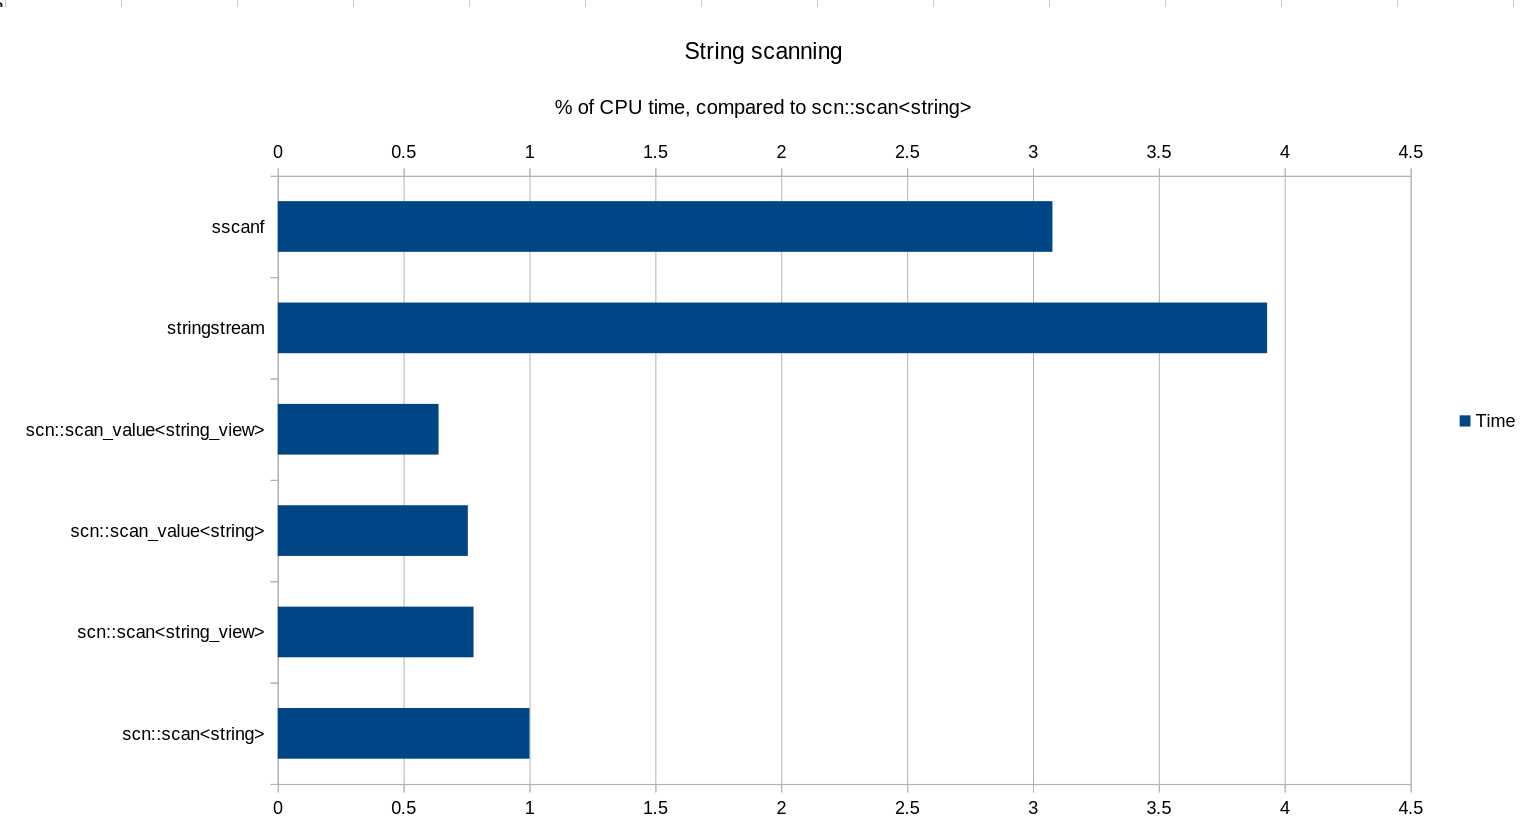
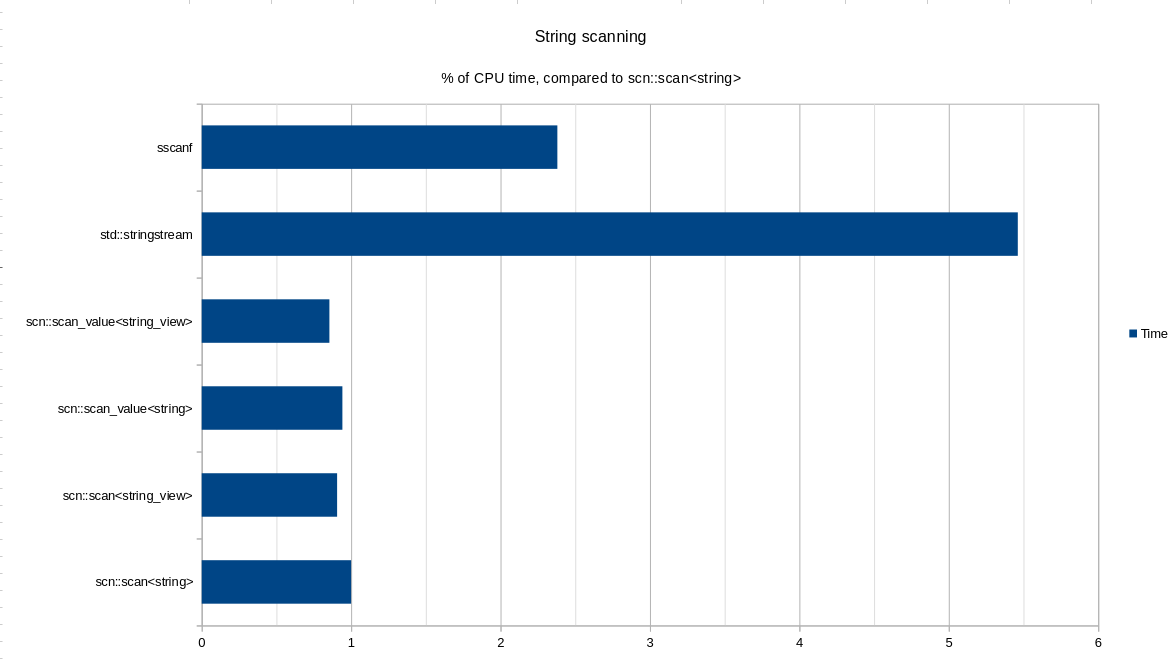
Update benchmark results

diff --git a/README.md b/README.md
@@ -209,30 +209,31 @@ Lower is better.
 
 ![Integer result, chart](benchmark/runtime/results/int.png)
 
-| Test                     | Test 1 `"single"` | Test 2 `"repeated"` |
-|:-------------------------|------------------:|--------------------:|
-| `scn::scan`              |              27.2 |                34.4 |
-| `scn::scan_value`        |              22.2 |                29.9 |
-| `scn::scan_int`          |              16.8 |                24.7 |
-| `std::stringstream`      |               112 |                56.2 |
-| `sscanf`                 |              72.1 |                 477 |
-| `strtol`                 |              16.5 |                24.5 |
-| `std::from_chars`        |              8.16 |                13.5 |
-| `fast_float::from_chars` |              7.23 |                12.0 |
+| Test                             | Test 1 `"single"` | Test 2 `"repeated"` | Test average |
+|:---------------------------------|------------------:|--------------------:|-------------:|
+| `scn::scan`                      |              23.8 |                30.4 |         27.1 |
+| `scn::scan_value`                |              20.5 |                27.4 |         24.0 |
+| `scn::scan_int`                  |              16.5 |                24.1 |         20.3 |
+| `scn::scan_int_exhaustive_valid` |              4.08 |                   - |         4.08 |
+| `std::stringstream`              |               117 |                53.9 |         85.5 |
+| `sscanf`                         |              71.3 |                 474 |        272.7 |
+| `strtol`                         |              16.3 |                23.8 |         20.1 |
+| `std::from_chars`                |              8.73 |                13.0 |         10.9 |
+| `fast_float::from_chars`         |              6.87 |                11.8 |         9.35 |
 
 #### Floating-point number parsing (`double`)
 
 ![Float result, chart](benchmark/runtime/results/float.png)
 
-| Test                     | Test 1 `"single"` | Test 2 `"repeated"` |
-|:-------------------------|------------------:|--------------------:|
-| `scn::scan`              |              66.3 |                82.7 |
-| `scn::scan_value`        |              61.9 |                76.7 |
-| `std::stringstream`      |               270 |                 272 |
-| `sscanf`                 |               161 |                 713 |
-| `strtod`                 |              85.1 |                 155 |
-| `std::from_chars`        |              15.7 |                29.1 |
-| `fast_float::from_chars` |              16.6 |                29.1 |
+| Test                     | Test 1 `"single"` | Test 2 `"repeated"` | Test Average |
+|:-------------------------|------------------:|--------------------:|-------------:|
+| `scn::scan`              |              55.8 |                63.7 |         59.7 |
+| `scn::scan_value`        |              52.1 |                58.8 |         55.5 |
+| `std::stringstream`      |               294 |                 271 |          283 |
+| `sscanf`                 |               159 |                 704 |          432 |
+| `strtod`                 |              79.1 |                 153 |          116 |
+| `std::from_chars`        |              18.0 |                28.1 |         23.0 |
+| `fast_float::from_chars` |              20.6 |                27.8 |         24.2 |
 
 #### String "word" (whitespace-separated character sequence) parsing (`string` and `string_view`)
 
@@ -240,12 +241,12 @@ Lower is better.
 
 | Test                           |      |
 |:-------------------------------|-----:|
-| `scn::scan<string>`            | 32.4 |
-| `scn::scan<string_view>`       | 25.2 |
-| `scn::scan_value<string>`      | 24.5 |
-| `scn::scan_value<string_view>` | 20.7 |
-| `std::stringstream`            |  127 |
-| `sscanf`                       | 99.7 |
+| `scn::scan<string>`            | 24.5 |
+| `scn::scan<string_view>`       | 22.2 |
+| `scn::scan_value<string>`      | 23.1 |
+| `scn::scan_value<string_view>` | 21.0 |
+| `std::stringstream`            |  134 |
+| `sscanf`                       | 58.4 |
 
 #### Conclusions
 
@@ -256,6 +257,7 @@ Lower is better.
 * `scn::scan_value` is slightly faster compared to `scn::scan`
 * `scn::scan_int` is faster than both `scn::scan` and `scn::scan_value`
 * `strtol` is ~on-par with `scn::scan_int`.
+* `scn::scan_int_exhaustive_valid` is blazing-fast.
 
 #### About
 
@@ -275,18 +277,16 @@ Above,
 
 The difference between "Test 1" and "Test 2" is most pronounced when using
 a `stringstream`, which is relatively expensive to construct,
-and seems to be adding around ~100ns of runtime.
+and seems to be adding around ~50ns of runtime.
 With `sscanf`, it seems like using the `%n` specifier and skipping whitespace
 are really expensive (~400ns of runtime).
 With `scn::scan` and `std::from_chars`, there's really no state to construct,
 and the results for "Test 1" and "Test 2" are thus quite similar.
 
-These benchmarks were run on a Fedora 39 machine, running Linux kernel version
-6.6.8, with an AMD Ryzen 7 5700X processor, and compiled with clang version
-17.0.6,
+These benchmarks were run on a Fedora 40 machine, running Linux kernel version
+6.8.9, with an AMD Ryzen 7 5700X processor, and compiled with clang version 18.1.1,
 with `-O3 -DNDEBUG -march=haswell` and LTO enabled.
-C++20 was used, with the library-bundled ranges implementation (`nanorange`).
-These benchmarks were run on 2024-01-09 (commit 629c3c5).
+These benchmarks were run on 2024-05-23 (commit 3fd830de).
 
 The source code for these benchmarks can be found in the `benchmark` directory.
 You can run these benchmarks yourself by enabling the CMake

diff --git a/CHANGELOG.md b/CHANGELOG.md
@@ -108,6 +108,8 @@ auto result = std::scan<int>("42  ", "{:<.3}");
 // result->value() == 42
 // result->range() == " "
 ```
+
+ * In general, there seems to be a ~10% to 20% improvement in run-time performance.
  
 ### Changes
 
